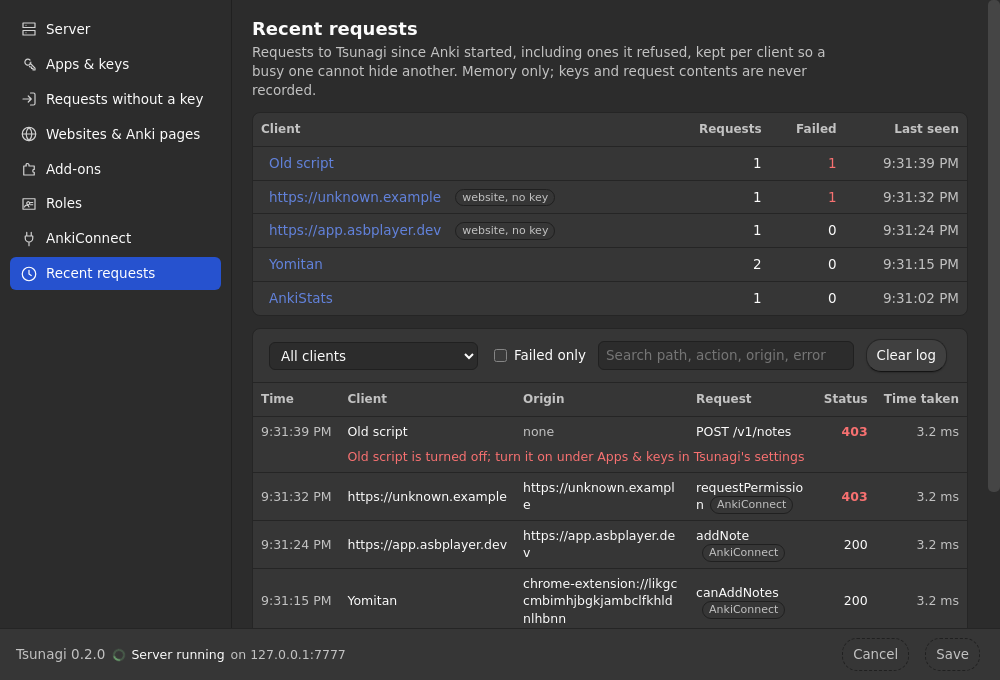
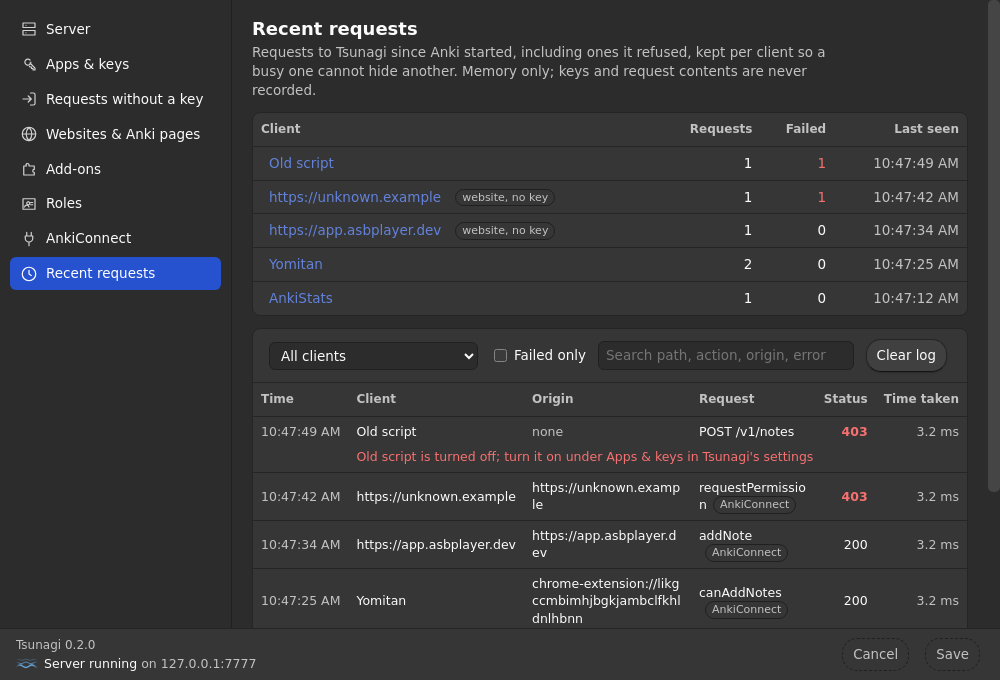
Settings: a river for the server indicator, version above it
The spinning ring is now a small river: three wave lines in depth, the
near (bottom) one boldest and fastest, in water blue. Stopping the
server calms it: the waves ease flat and grey while the flow slows to a
stop, and the animation then pauses, so nothing ticks while the server
is off. Starting reverses both. Reduced motion shows the two shapes
with no flow or easing.

The indicator is built once instead of on every two-second poll, so
its motion isn't restarted, and the text changes only with the state.

The footer stacks the version above the server status. Screenshots
regenerated.

diff --git a/tsunagi/web/settings.js b/tsunagi/web/settings.js
@@ -874,14 +874,82 @@ document.getElementById("cancel").addEventListener("click", () => {
   notify("Unsaved changes on every page discarded");
 });
 
+// A wave from x=-len to past the indicator's right edge: shifting it by one
+// wavelength loops seamlessly. amp 0 draws the same commands flat, so the
+// browser can ease between the two shapes.
+function wave(y, amp, len) {
+  let d = `M${-len} ${y} q${len / 4} ${-amp} ${len / 2} 0`;
+  for (let x = -len / 2; x < 36; x += len / 2) d += ` t${len / 2} 0`;
+  return d;
+}
+
+// The server indicator: a small river seen in depth, the near (bottom) line
+// fastest. Built once, so stopping the server calms its waves to flat lines.
+function streamIndicator() {
+  const ns = "http://www.w3.org/2000/svg";
+  const svg = document.createElementNS(ns, "svg");
+  svg.setAttribute("viewBox", "0 0 22 12");
+  svg.setAttribute("aria-hidden", "true");
+  svg.setAttribute("class", "indicator");
+  for (const [cls, y, amp, len] of [["far", 2.8, 1.2, 8], ["mid", 5.9, 1.8, 10], ["near", 9.2, 2.4, 12]]) {
+    const path = document.createElementNS(ns, "path");
+    path.setAttribute("class", cls);
+    path.setAttribute("d", wave(y, amp, len));
+    path.style.setProperty("--wave", `path("${wave(y, amp, len)}")`);
+    path.style.setProperty("--flat", `path("${wave(y, 0, len)}")`);
+    svg.append(path);
+  }
+  return svg;
+}
+
+// Ease the flow's speed to `to` (1 = full, 0 = paused) over `ms`, alongside
+// the waves' CSS transition: the river slows as it calms and picks up as it
+// rises. At 0 the animations pause, so a stopped server keeps nothing ticking.
+function easeFlow(svg, to, ms, ease) {
+  // Only the flow (CSS animations): the waves' shape and colour transitions
+  // must run their full course, or the river stops part-way to flat and grey.
+  const flows = svg.getAnimations({ subtree: true }).filter((a) => a.animationName);
+  if (!flows.length) return;   // reduced motion: there is no flow
+  cancelAnimationFrame(svg.flowFrame);
+  const from = flows[0].playState === "paused" ? 0 : flows[0].playbackRate;
+  if (!ms) {
+    flows.forEach((a) => { a.playbackRate = to || 1; if (to) a.play(); else a.pause(); });
+    return;
+  }
+  flows.forEach((a) => { a.playbackRate = from; a.play(); });
+  const start = performance.now();
+  const step = (now) => {
+    const t = Math.min(1, (now - start) / ms);
+    flows.forEach((a) => { a.playbackRate = from + (to - from) * ease(t); });
+    if (t < 1) svg.flowFrame = requestAnimationFrame(step);
+    else if (!to) flows.forEach((a) => a.pause());
+  };
+  svg.flowFrame = requestAnimationFrame(step);
+}
+const easeOut = (t) => 1 - (1 - t) ** 3;
+const easeInOut = (t) => (t < 0.5 ? 4 * t ** 3 : 1 - (-2 * t + 2) ** 3 / 2);
+
 // Whether the server is up, polled: saving can restart it, Anki can stop it.
+let serverUrl;   // undefined until the first poll, then the URL or null
 async function pollServer() {
   const st = await call("server_status");
+  const url = st && st.running ? st.url : null;
+  if (url === serverUrl) return;
   const el = document.getElementById("server");
-  el.className = "server " + (st && st.running ? "on" : "off");
-  el.replaceChildren(h("span", { class: "indicator", "aria-hidden": "true" }),
-    ...(st && st.running ? ["Server running", h("span", { class: "muted" }, " on " + st.url.replace("http://", ""))]
-                         : ["Server off"]));
+  const first = serverUrl === undefined;
+  serverUrl = url;
+  if (first) el.replaceChildren(streamIndicator(), h("span"));
+  // The first state shows at once; later changes ease the waves and their
+  // flow up or down together (the durations match settings.css).
+  el.classList.toggle("instant", first);
+  el.classList.toggle("on", url !== null);
+  el.classList.toggle("off", url === null);
+  if (first) easeFlow(el.firstChild, url ? 1 : 0, 0);
+  else if (url) easeFlow(el.firstChild, 1, 2200, easeInOut);
+  else easeFlow(el.firstChild, 0, 2400, easeOut);
+  el.lastChild.replaceChildren(...(url ? ["Server running", h("span", { class: "muted" }, " on " + url.replace("http://", ""))]
+                                       : ["Server off"]));
+  if (first) requestAnimationFrame(() => requestAnimationFrame(() => el.classList.remove("instant")));
 }
 
 (function start() {

diff --git a/tsunagi/web/settings.css b/tsunagi/web/settings.css
@@ -17,6 +17,8 @@
   --t-warn-bg: color-mix(in srgb, var(--t-danger) 11%, transparent);
   /* Toward the text colour, like --t-link, so it reads in both themes. */
   --t-ok: color-mix(in srgb, var(--accent-success, #2e7d32) 70%, var(--t-fg));
+  /* Water blue for the server indicator, toward the text colour like --t-ok. */
+  --t-stream: color-mix(in srgb, #3a8fd9 78%, var(--t-fg));
   --t-radius: 8px;
 }
 
@@ -218,15 +220,30 @@ footer {
   border-top: 1px solid var(--t-soft); background: var(--t-card);
 }
 footer .spacer { flex: 1; }
-/* Server status: a turning ring while it runs, an empty circle when off. */
+/* The version sits above the server status, stacked, to leave the footer room for messages. */
+footer .about { display: flex; flex-direction: column; gap: 1px; margin-right: 8px; }
+#version { font-size: 12px; }
+/* Server status: a small river while it runs, three layers in depth (the near,
+   bottom one boldest and fastest). Off calms it: the waves ease flat and grey
+   while settings.js slows the flow to a stop; starting reverses both. */
 .server { display: inline-flex; align-items: center; gap: 6px; font-size: 12.5px; white-space: nowrap; }
-.server .indicator { width: 12px; height: 12px; border-radius: 50%; box-sizing: border-box; flex-shrink: 0; }
-.server.on .indicator { border: 2px solid color-mix(in srgb, var(--t-ok) 35%, transparent); border-top-color: var(--t-ok);
-                        animation: t-spin 1.1s linear infinite; }
-.server.off .indicator { border: 2px solid var(--t-muted); }
+.server .indicator { width: 22px; height: 12px; flex-shrink: 0; overflow: hidden;
+  -webkit-mask-image: linear-gradient(90deg, transparent, #000 22%, #000 78%, transparent);
+  mask-image: linear-gradient(90deg, transparent, #000 22%, #000 78%, transparent); }
+.server .indicator path { fill: none; stroke: var(--t-stream); stroke-linecap: round; d: var(--wave);
+  transition: d 2.2s ease-in-out, stroke 2.2s ease-in-out; }
+.server .indicator .far { stroke-width: 0.9; opacity: 0.4; animation: t-flow8 3.6s linear infinite; }
+.server .indicator .mid { stroke-width: 1.15; opacity: 0.7; animation: t-flow10 2.1s linear infinite; }
+.server .indicator .near { stroke-width: 1.45; animation: t-flow12 1.2s linear infinite; }
+.server.off .indicator path { d: var(--flat); stroke: var(--t-muted); transition: d 2.4s ease-out, stroke 2.4s ease-out; }
+.server.instant .indicator path { transition: none; }
 .server.off { color: var(--t-muted); }
-@keyframes t-spin { to { transform: rotate(360deg); } }
-@media (prefers-reduced-motion: reduce) { .server.on .indicator { animation: none; border-color: var(--t-ok); } }
+@keyframes t-flow8 { to { transform: translateX(8px); } }
+@keyframes t-flow10 { to { transform: translateX(10px); } }
+@keyframes t-flow12 { to { transform: translateX(12px); } }
+@media (prefers-reduced-motion: reduce) {
+  .server .indicator path.far, .server .indicator path.mid, .server .indicator path.near { animation: none; transition: none; }
+}
 /* Save and Cancel wait for a change, like the other disabled buttons. */
 footer button:disabled {
   background: transparent; box-shadow: none; border: 1px dashed var(--t-border); color: var(--t-muted); opacity: 1; cursor: not-allowed;

diff --git a/tsunagi/web/settings.html b/tsunagi/web/settings.html
@@ -4,8 +4,10 @@
   <main id="main"><p class="muted">Loading…</p></main>
 </div>
 <footer id="footer">
-  <span id="version" class="muted"></span>
-  <span id="server" class="server" role="status"></span>
+  <div class="about">
+    <span id="version" class="muted"></span>
+    <span id="server" class="server" role="status"></span>
+  </div>
   <span id="status" role="status" aria-live="polite"></span>
   <div id="errors" role="alert" hidden></div>
   <span class="spacer"></span>
